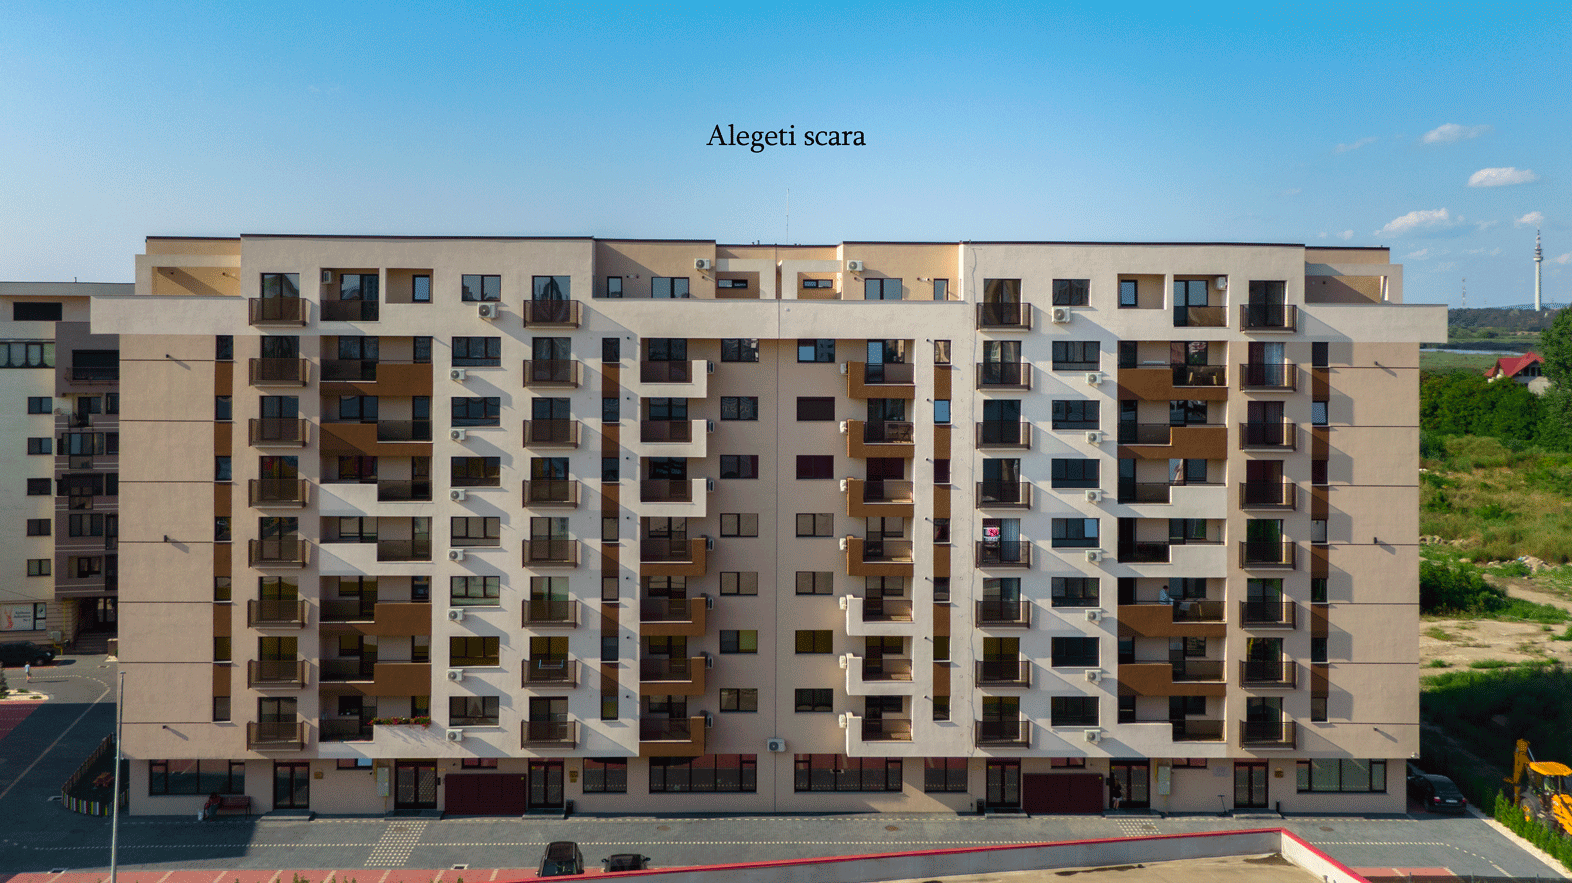
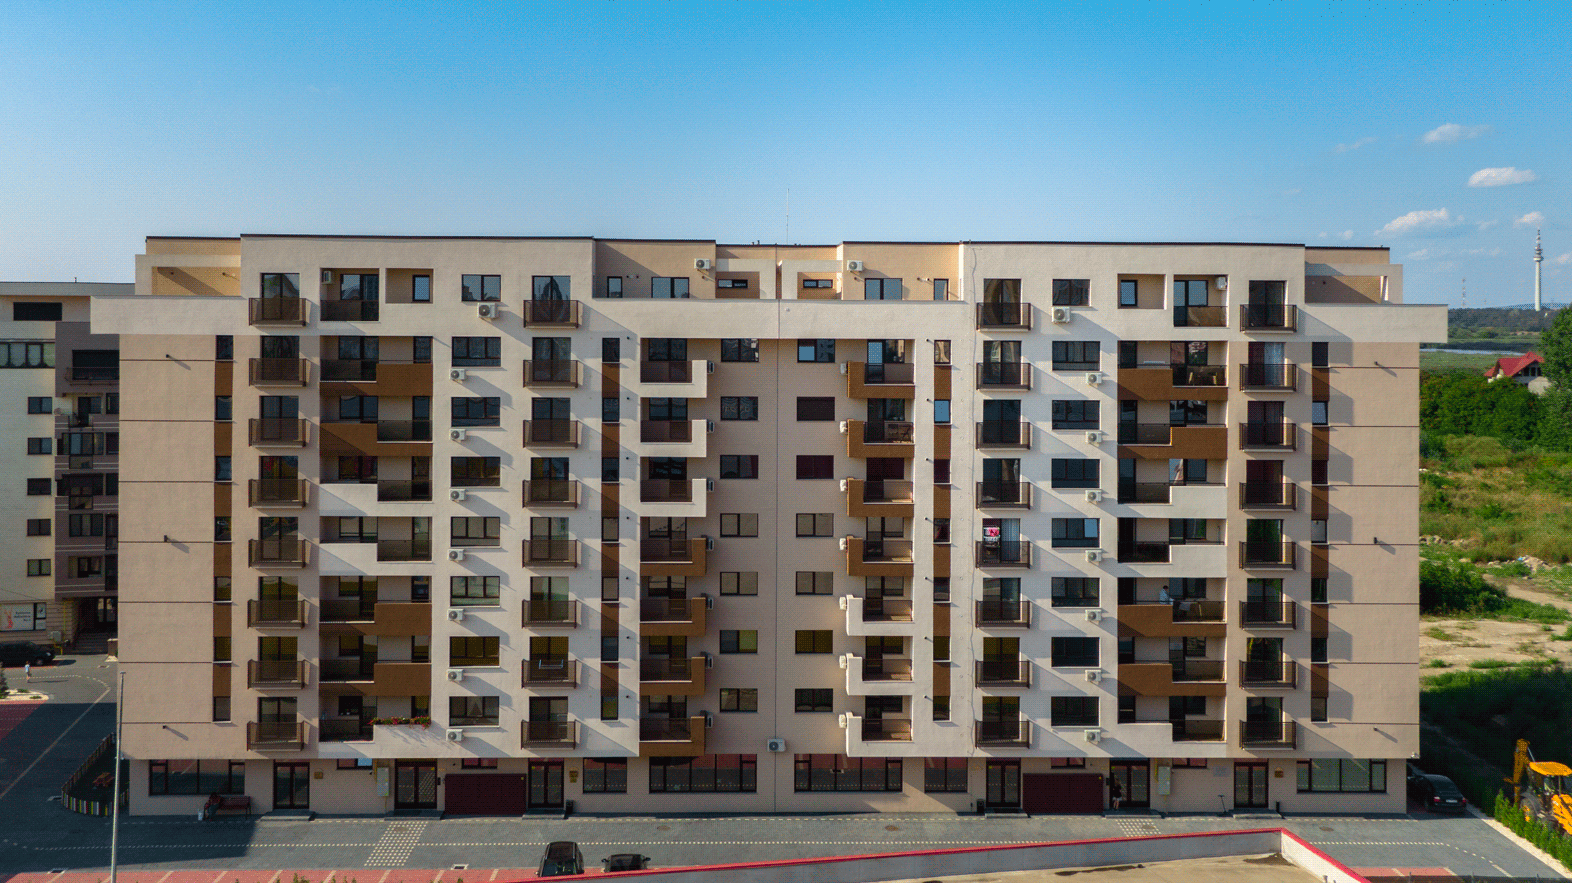
mai are gabi si gata

diff --git a/src/components/map/AnimatedStores/AlegeScara/ScaraC2.jsx b/src/components/map/AnimatedStores/AlegeScara/ScaraC2.jsx
@@ -35,14 +35,14 @@ class ScaraC2 extends React.Component {
               lineJoin={"round"}
               fillAfterStrokeEnabled={true}
               closed={true}
-              // stroke={"rgba(255, 186, 0, .7)"}
-              fill={"rgba(255, 186, 0, .7)"}
+              stroke={"rgba(42, 121, 179,1)"}
+              fill={"rgba(42, 121, 179,0.7)"}
             />
 
             <animated.Label id="tooltip" x={1050} y={120}>
               <animated.Tag
-                fill={"#bbb"}
-                stroke={"#333"}
+                fill={"rgba(42, 121, 179,0.7)"}
+                stroke={"rgba(42, 121, 179,1)"}
                 shadowColor={"black"}
                 shadowBlur={10}
                 shadowOffsetX={10}
@@ -55,11 +55,11 @@ class ScaraC2 extends React.Component {
                 cornerRadius={5}
               />
               <animated.Text
-                color="red"
+                color={"rgba(42, 121, 179,1)"}
                 text="Scara C2"
                 fontSize={48}
                 padding={5}
-                fill="black"
+                fill="rgba(255, 186, 0, .7)"
               />
             </animated.Label>
           </animated.Group>

diff --git a/src/pages/Etaje/C1/Etaj1.jsx b/src/pages/Etaje/C1/Etaj1.jsx
@@ -7,20 +7,20 @@ const C1_Etaj1 = () => {
     <div className="contain-etaj">
       <div className="etaje">
         <div className="etaj">
-          <div className="distance"></div>
-          <div class="arrow bounce">
-            <h1>SELECTATI APARTAMENTUL DORIT</h1>
-            <a class="fa fa-arrow-down fa-2x" href="#map-container">
-              {" "}
-            </a>
-          </div>
-
           <div className="flerat">
             <div className="info-etaj">
+              <div className="distance mic-mic"></div>
+              <h1>SELECTATI APARTAMENTUL DORIT</h1>
+              <div class="arrow bounce">
+                <a class="fa fa-arrow-down fa-2x" href="#map-container">
+                  {" "}
+                </a>
+              </div>
+
               <div className="canvas-container">
                 <C1Etaj1 />
               </div>
-              <div className="distance"></div>
+              <div className="distance no-mic"></div>
               <h8></h8>
 
               <p></p>

diff --git a/src/components/map/AnimatedStores/C1/C1_Et2.jsx b/src/components/map/AnimatedStores/C1/C1_Et2.jsx
@@ -33,13 +33,13 @@ class C1Et2 extends React.Component {
               lineJoin={"round"}
               fillAfterStrokeEnabled={true}
               closed={true}
-              // stroke={"rgba(255, 186, 0, .7)"}
-              fill={"rgba(255, 186, 0, .7)"}
+              stroke={"rgba(42, 121, 179,0.7)"}
+              fill={"rgba(42, 121, 179,0.7)"}
             />
 
             <animated.Label id="tooltip" x={1010} y={660}>
               <animated.Tag
-                fill={"#bbb"}
+                fill={"rgba(42, 121, 179,0.7)"}
                 stroke={"#333"}
                 shadowColor={"black"}
                 shadowBlur={10}
@@ -57,7 +57,7 @@ class C1Et2 extends React.Component {
                 text="Plan Etaj 2"
                 fontSize={44}
                 padding={5}
-                fill="black"
+                fill="rgba(255, 186, 0, 1)"
               />
             </animated.Label>
           </animated.Group>

diff --git a/src/components/map/AnimatedStores/C1/C1_Et4.jsx b/src/components/map/AnimatedStores/C1/C1_Et4.jsx
@@ -32,13 +32,13 @@ class C1Et4 extends React.Component {
               lineJoin={"round"}
               fillAfterStrokeEnabled={true}
               closed={true}
-              // stroke={"rgba(255, 186, 0, .7)"}
-              fill={"rgba(255, 186, 0, .7)"}
+              stroke={"rgba(42, 121, 179,1)"}
+              fill={"rgba(42, 121, 179,0.7)"}
             />
 
             <animated.Label id="tooltip" x={1010} y={540}>
               <animated.Tag
-                fill={"#bbb"}
+                fill={"rgba(42, 121, 179,0.7)"}
                 stroke={"#333"}
                 shadowColor={"black"}
                 shadowBlur={10}
@@ -56,7 +56,7 @@ class C1Et4 extends React.Component {
                 text="Plan Etaj 4"
                 fontSize={44}
                 padding={5}
-                fill="black"
+                fill="rgba(255, 186, 0, 1)"
               />
             </animated.Label>
           </animated.Group>

diff --git a/src/components/map/AnimatedStores/C1/C1_Et6.jsx b/src/components/map/AnimatedStores/C1/C1_Et6.jsx
@@ -33,12 +33,12 @@ class C1Et6 extends React.Component {
               lineJoin={"round"}
               fillAfterStrokeEnabled={true}
               closed={true}
-              // stroke={"rgba(255, 186, 0, .7)"}
-              fill={"rgba(255, 186, 0, .7)"}
+              stroke={"rgba(42, 121, 179, 1)"}
+              fill={"rgba(42, 121, 179,0.7)"}
             />
             <animated.Label id="tooltip" x={1010} y={420}>
               <animated.Tag
-                fill={"#bbb"}
+                fill={"rgba(42, 121, 179,0.7)"}
                 stroke={"#333"}
                 shadowColor={"black"}
                 shadowBlur={10}
@@ -56,7 +56,7 @@ class C1Et6 extends React.Component {
                 text="Plan Etaj 6"
                 fontSize={44}
                 padding={5}
-                fill="black"
+                fill="rgba(255, 186, 0, 1)"
               />
             </animated.Label>
           </animated.Group>

diff --git a/src/components/map/AnimatedStores/C1/C1_Et8.jsx b/src/components/map/AnimatedStores/C1/C1_Et8.jsx
@@ -36,12 +36,12 @@ class C1Et8 extends React.Component {
               lineJoin={"round"}
               fillAfterStrokeEnabled={true}
               closed={true}
-              // stroke={"rgba(255, 186, 0, .7)"}
-              fill={"rgba(255, 186, 0, .7)"}
+              stroke={"rgba(42, 121, 179,1)"}
+              fill={"rgba(42, 121, 179,0.7)"}
             />
             <animated.Label id="tooltip" x={1010} y={280}>
               <animated.Tag
-                fill={"#bbb"}
+                fill={"rgba(42, 121, 179,0.7)"}
                 stroke={"#333"}
                 shadowColor={"black"}
                 shadowBlur={10}
@@ -59,7 +59,7 @@ class C1Et8 extends React.Component {
                 text="Plan Etaj 8"
                 fontSize={44}
                 padding={5}
-                fill="black"
+                fill="rgba(255, 186, 0, 1)"
               />
             </animated.Label>
           </animated.Group>

diff --git a/src/components/map/AnimatedStores/C1/C1_Et3.jsx b/src/components/map/AnimatedStores/C1/C1_Et3.jsx
@@ -33,12 +33,12 @@ class C1Et3 extends React.Component {
               lineJoin={"round"}
               fillAfterStrokeEnabled={true}
               closed={true}
-              // stroke={"rgba(255, 186, 0, .7)"}
+              stroke={"rgba(255, 186, 0, .7)"}
               fill={"rgba(255, 186, 0, .7)"}
             />
             <animated.Label id="tooltip" x={780} y={600}>
               <animated.Tag
-                fill={"#bbb"}
+                fill={"rgba(255, 186, 0, .7)"}
                 stroke={"#333"}
                 shadowColor={"black"}
                 shadowBlur={10}
@@ -56,7 +56,7 @@ class C1Et3 extends React.Component {
                 text="Plan Etaj 3"
                 fontSize={44}
                 padding={5}
-                fill="black"
+                fill="rgba(46, 0, 219,1)"
               />
             </animated.Label>
           </animated.Group>

diff --git a/src/components/map/AnimatedStores/C1/C1_Et1.jsx b/src/components/map/AnimatedStores/C1/C1_Et1.jsx
@@ -31,13 +31,13 @@ class C1Et1 extends React.Component {
               lineJoin={"round"}
               fillAfterStrokeEnabled={true}
               closed={true}
-              stroke={"rgba(255, 186, 0, .9)"}
+              stroke={"rgba(255, 186, 0, 1)"}
               fill={"rgba(255, 186, 0, .7)"}
             />
 
             <animated.Label id="tooltip" x={780} y={730}>
               <animated.Tag
-                fill={"#bbb"}
+                fill={"rgba(255, 186, 0, .7)"}
                 stroke={"#333"}
                 shadowColor={"black"}
                 shadowBlur={10}
@@ -55,7 +55,7 @@ class C1Et1 extends React.Component {
                 text="Plan Etaj 1"
                 fontSize={44}
                 padding={5}
-                fill="black"
+                fill="rgba(46, 0, 219,1)"
               />
             </animated.Label>
           </animated.Group>

diff --git a/src/components/map/Scari/ScaraC1.jsx b/src/components/map/Scari/ScaraC1.jsx
@@ -5,7 +5,7 @@ import { Stage, Layer, Image, Group } from "react-konva";
 import { useHistory } from "react-router-dom";
 
 import useImage from "use-image";
-import LaptopImage from "../../../images/building_map/C1_map_laptop-.png";
+import LaptopImage from "../../../images/building_map/bloc_map_mapping.png";
 
 import C1Et1 from "../AnimatedStores/C1/C1_Et1";
 import C1Et2 from "../AnimatedStores/C1/C1_Et2";
@@ -161,6 +161,13 @@ const C1 = () => {
 
   return (
     <div id="map-container" className="map-container">
+      <div className="distance "></div>
+      <h1>SELECTATI ETAJUL DORIT</h1>
+      <div class="arrow bounce">
+        <a class="fa fa-arrow-down fa-2x" href="#map-container">
+          {" "}
+        </a>
+      </div>
       <Stage
         ref={stageRef}
         id="container"

diff --git a/src/components/map/AnimatedStores/AlegeScara/ScaraC1.jsx b/src/components/map/AnimatedStores/AlegeScara/ScaraC1.jsx
@@ -34,14 +34,14 @@ class ScaraC1 extends React.Component {
               lineJoin={"round"}
               fillAfterStrokeEnabled={true}
               closed={true}
-              // stroke={"rgba(255, 186, 0, .7)"}
+              stroke={"rgba(255, 186, 0, 1)"}
               fill={"rgba(255, 186, 0, .7)"}
             />
 
             <animated.Label id="tooltip" x={400} y={120}>
               <animated.Tag
-                fill={"#bbb"}
-                stroke={"#333"}
+                fill={"rgba(255, 186, 0, .7)"}
+                stroke={"rgba(255, 186, 0, 1)"}
                 shadowColor={"black"}
                 shadowBlur={10}
                 shadowOffsetX={10}

diff --git a/src/components/map/AnimatedStores/C1/C1_Et5.jsx b/src/components/map/AnimatedStores/C1/C1_Et5.jsx
@@ -38,7 +38,7 @@ class C1Et5 extends React.Component {
             />
             <animated.Label id="tooltip" x={780} y={480}>
               <animated.Tag
-                fill={"#bbb"}
+                fill={"rgba(255, 186, 0, .7)"}
                 stroke={"#333"}
                 shadowColor={"black"}
                 shadowBlur={10}
@@ -56,7 +56,7 @@ class C1Et5 extends React.Component {
                 text="Plan Etaj 5"
                 fontSize={44}
                 padding={5}
-                fill="black"
+                fill="rgba(46, 0, 219,1)"
               />
             </animated.Label>
           </animated.Group>

diff --git a/src/components/map/AnimatedStores/C1/C1_Et7.jsx b/src/components/map/AnimatedStores/C1/C1_Et7.jsx
@@ -38,7 +38,7 @@ class C1Et7 extends React.Component {
             />
             <animated.Label id="tooltip" x={780} y={360}>
               <animated.Tag
-                fill={"#bbb"}
+                fill={"rgba(255, 186, 0, .7)"}
                 stroke={"#333"}
                 shadowColor={"black"}
                 shadowBlur={10}
@@ -56,7 +56,7 @@ class C1Et7 extends React.Component {
                 text="Plan Etaj 7"
                 fontSize={44}
                 padding={5}
-                fill="black"
+                fill="rgba(46, 0, 219,1)"
               />
             </animated.Label>
           </animated.Group>
